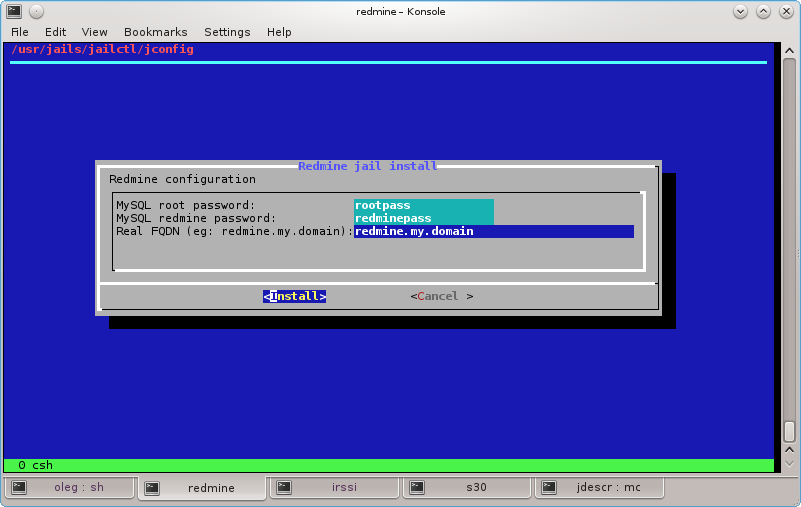
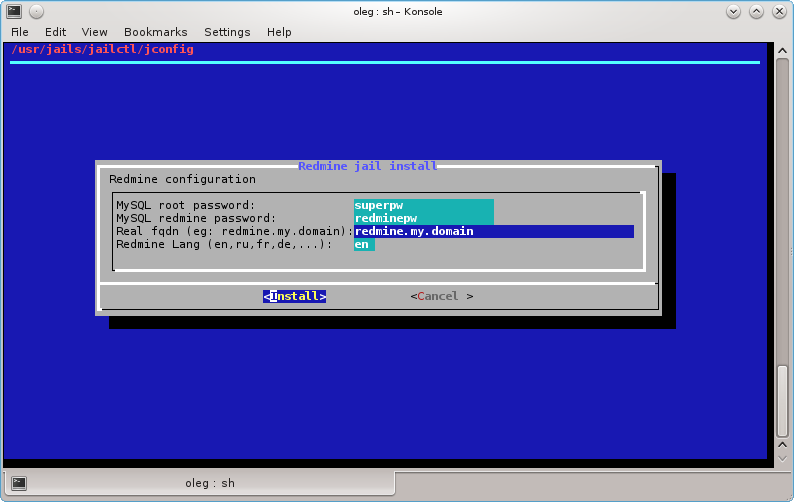
fix for rm wizard

diff --git a/html/jdescr/redmine_details_en.html b/html/jdescr/redmine_details_en.html
@@ -28,11 +28,6 @@ After image downloading please set correct name and ip address of the jail and r
 <br><br>
 <img src="/html/img/redmine1.png"></img>
 <br>
-<p>At the end of redmine initialization you will be asked which language you prefer by default:
-<pre>
-Select language: ar, az,  ...  zh-TW [en]
-</pre>
-Just hit 'Enter' for English or choose correct lang
 <br><br>
 Now Redmine ready to use. Do not forget to set <i>astart=1</i> in <b>cbsd jconfig jname=redmine</b> if you want for starting jail automatically.
 <br><br>By the starting jail via
@@ -44,5 +39,10 @@ a clean Redmine installation in the jail will be available for accessing via <b>
 <br><br>
 <!--# include file="/html/changeroot_en.html" -->
 <br><br>
+For non-interactive and automatic deploying (for example you create hosting with lots of RM installation for customer) you can use: 
+<pre>
+   % cbsd jconfig jname=redmine redmineinstall rootpw= rmpw= fqdn= redmine_lang=
+</pre>
+
 </BODY>
 </HTML>
